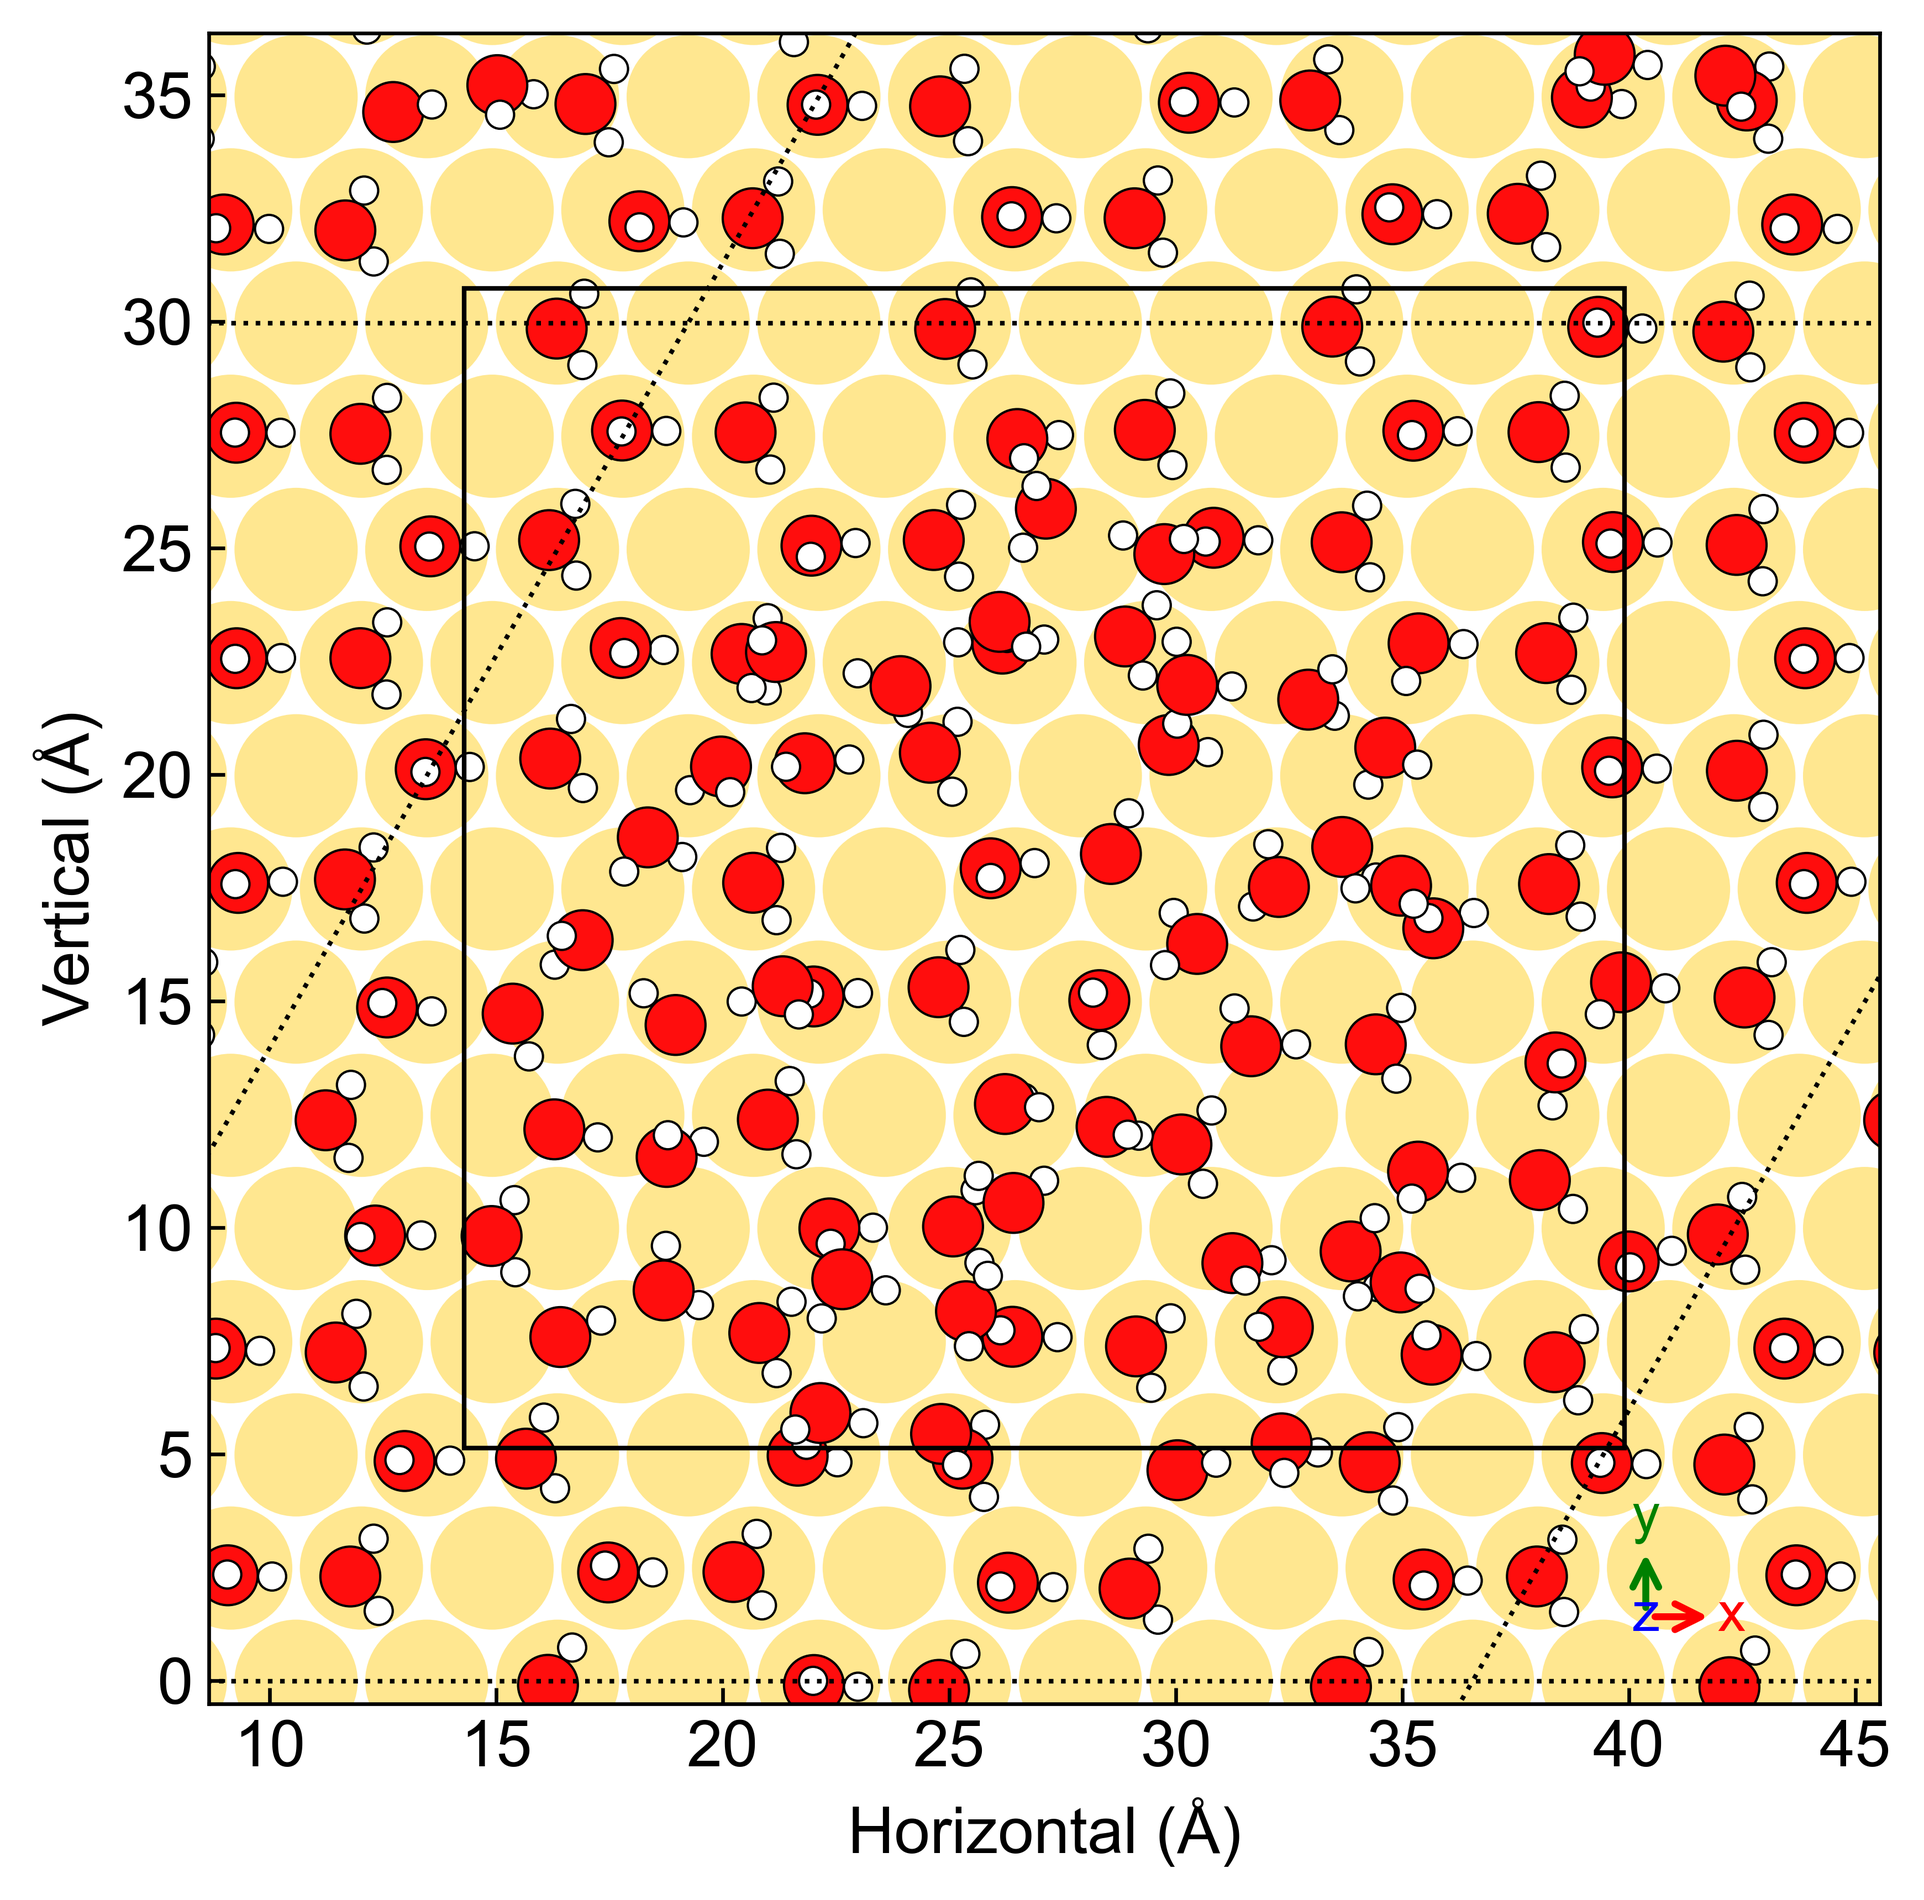
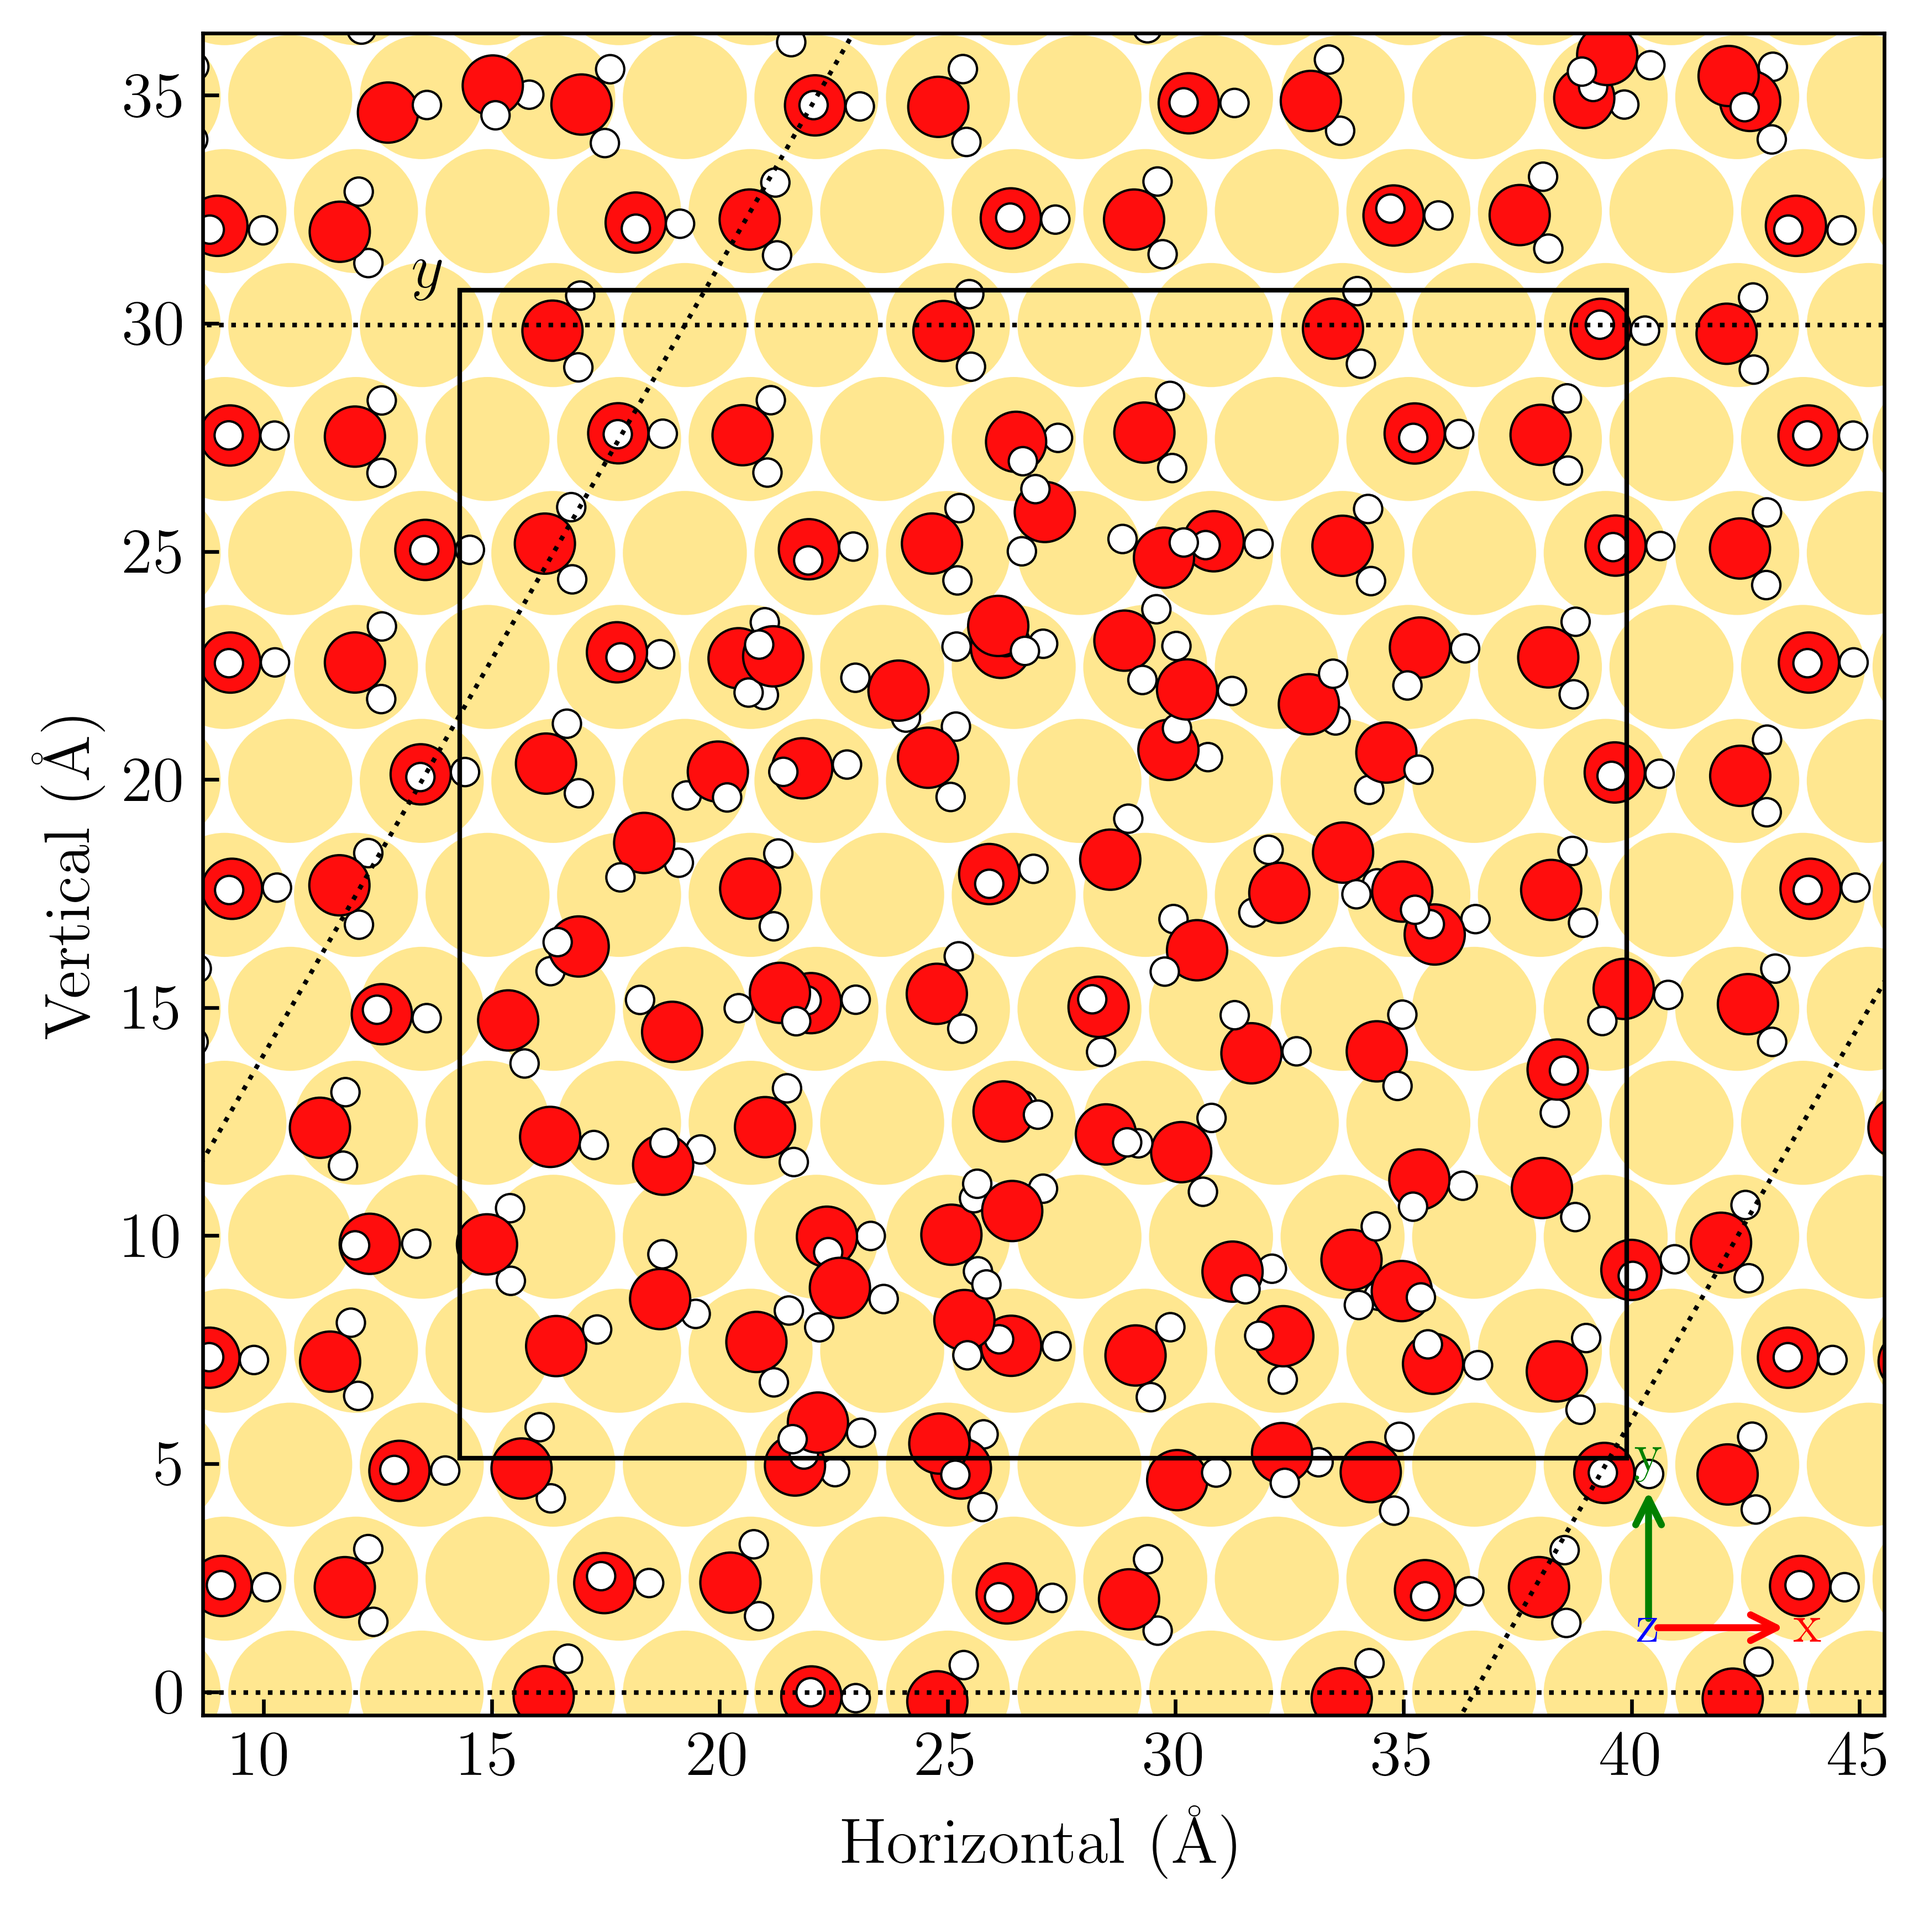
2D error map

diff --git a/src/visualiseTrainingData.py b/src/visualiseTrainingData.py
@@ -18,7 +18,11 @@ import imageio.v3 as iio
 
 from utils import get_scan_window_from_xyz, draw_unit_cells, draw_3d_axis_indicator
 # Input structure for visualization
-demoStructure = '../data/structures/simulations/Label/0.xyz'
+demoIndex = 0
+demoStructure = f'../data/structures/simulations/Label/{demoIndex}.xyz'
+exampleInput = '../data/overview'
+refZ0 = 14.0 # Needs to be confirmed latter
+dz = 0.4 # Units: Å
 
 # Output folder for the output structures
 figure_folder = '../results/train_data'
@@ -39,14 +43,15 @@ plt.rcParams['font.size']=14
 plt.rcParams['font.family']='Arial'
 plt.rcParams['pdf.fonttype']=42
 plt.rcParams['svg.fonttype'] = 'none'
+plt.rcParams['text.usetex'] = True # Render text with LaTeX
 
 
 xyz_min, xyz_max = get_scan_window_from_xyz(demoStructure)
 xyz_center = xyz_min + (xyz_max - xyz_min)/2
 
-###############################################################
-# Plot the atoms of demonstration configuration in the xy plane
-###############################################################
+####################################################################
+# 1. Plot the atoms of demonstration configuration in the xy plane
+####################################################################
 atoms = read_xyz_with_atomic_numbers(demoStructure)
 
 substrate = atoms[atoms.numbers == 79] # Au substrate
@@ -118,6 +123,10 @@ if showImageRegion:
     rect = Rectangle((x0, y0), width, height, linewidth=1, edgecolor='k',
                      facecolor='none', label='image region')
     ax1.add_patch(rect)
+    offset_x = 0.04 * width
+    offset_y = 0.04 * height
+    ax1.text(x0 - offset_x, y1 + offset_y, r"$y$", va='top', ha='left')
+
 
 yticks = np.arange(20, 70.1, 5)
 ax1.set_yticks(yticks)
@@ -150,9 +159,9 @@ plt.close(fig)
 
 
 
-#####################################################
-# Plot simulation images and style translated images
-#####################################################
+########################################################
+# 2. Plot simulation images and style translated images
+########################################################
 showScanRegion = False
 showImageRegion = True
 showLattice = False
@@ -282,59 +291,93 @@ ax2.set_ylim([xy_center[1] - sw_y/2 - offset, xy_center[1] + sw_y/2 + offset])
 # Axis label
 ax2.text(offset_text, 1 - offset_text_y, "$y$", transform=ax2.transAxes, va='top', ha='left')
 
-refZ0 = 14.0
-dz = 0.4
-# Step 1: Collect all images first to compute global vmin and vmax
+# Step 1: Collect all images first to compute global vmin and vmax, then I can use the same vmin and vmax for all images
 all_images = []
-
 for j in range(2):
     for i in range(3):
         if j == 0:
-            imagePath = '/Users/huangj4/Desktop/2024-StyleTranslation-Figures/overview/PPAFM/{:.2f}.png'.format(i * 0.1 * dz)
+            imagePath = '{}/PPAFM/{:.2f}.png'.format(exampleInput, i * 0.1 * dz) # PPAFM
         else:
-            imagePath = '/Users/huangj4/Desktop/2024-StyleTranslation-Figures/overview/FakeAFM/{:.2f}.png'.format(i * 0.1 * dz)
-        image = iio.imread(imagePath)
+            imagePath = '{}/FakeAFM/{:.2f}.png'.format(exampleInput, i * 0.1 * dz) # FakeAFM
+        image = iio.imread(imagePath).astype(np.float32)  
         all_images.append(image)
-
-# Step 2: Compute global vmin and vmax
 all_images_np = np.array(all_images)
 vmin = all_images_np.min()
 vmax = all_images_np.max()
 
-for j in range(2):
-    for i in range(3):
+# Calculate the error maps
+error_maps = []
+for i in range(3):
+    imagePPAFM = '{}/PPAFM/{:.2f}.png'.format(exampleInput, i * 0.1 * dz) # PPAFM
+    imageFakeAFM = '{}/FakeAFM/{:.2f}.png'.format(exampleInput, i * 0.1 * dz) # FakeAFM
+    imagePPAFM = iio.imread(imagePPAFM).astype(np.float32)  
+    imageFakeAFM = iio.imread(imageFakeAFM).astype(np.float32)
+    print('imagePPAFM:', imagePPAFM)
+    print('imageFakeAFM:', imageFakeAFM)
+    error_map = imageFakeAFM - imagePPAFM
+    print('error_map:', error_map)
+    error_maps.append(error_map)
+all_error_maps = np.array(error_maps)
+emin = all_error_maps.min()
+emax = all_error_maps.max()
+print('emin:', emin)
+print('emax:', emax)
+
+subLabels = [fr"$x^\prime=F_{{\mathcal{{Y}}}}(y)$", fr"$x=G_{{\mathcal{{X}}^\prime}}(x^\prime)$", fr"$x-x^\prime$"]
+
+# Store axes for each column
+axes_col = [[], [], []]
+ims_col = [None, None, None]
+
+for j in range(3): # Columns
+    for i in range(3): # Rows
         ax = fig.add_subplot(gs[i+1, j])
         ax.set_aspect('equal')
         ax.tick_params(axis='both', direction='in', labelright=False)
+        im = None
         if j == 0:
-            imagePath = '/Users/huangj4/Desktop/2024-StyleTranslation-Figures/overview/PPAFM/{:.2f}.png'.format(i * 0.1 * dz)
-        else:
-            imagePath = '/Users/huangj4/Desktop/2024-StyleTranslation-Figures/overview/FakeAFM/{:.2f}.png'.format(i * 0.1 * dz)
-        
-        # Load image and rotate it by 90 degrees counter-clockwise
-        image = iio.imread(imagePath)  # or use imageio.imread for older versions
-        rotated_image = np.rot90(image, k=3)  # 90 degrees counter-clockwise
-        ax.imshow(rotated_image, cmap='inferno', vmin=vmin, vmax=vmax)
+            imagePath = '{}/PPAFM/{:.2f}.png'.format(exampleInput, i * 0.1 * dz) # PPAFM
+            image = iio.imread(imagePath).astype(np.float32)  # or use imageio.imread for older versions
+            rotated_image = np.rot90(image, k=3)  # 90 degrees counter-clockwise
+            im = ax.imshow(rotated_image, cmap='inferno', vmin=vmin, vmax=vmax)
+        elif j == 1:
+            imagePath = '{}/FakeAFM/{:.2f}.png'.format(exampleInput, i * 0.1 * dz) # FakeAFM
+            image = iio.imread(imagePath).astype(np.float32)  # or use imageio.imread for older versions
+            rotated_image = np.rot90(image, k=3)  # 90 degrees counter-clockwise
+            im = ax.imshow(rotated_image, cmap='inferno', vmin=vmin, vmax=vmax)
+        elif j == 2:
+            image = all_error_maps[i]  # Use the error map
+            rotated_image = np.rot90(image, k=3)  # 90 degrees counter-clockwise
+            im = ax.imshow(rotated_image, cmap='BrBG', vmin=emin, vmax=emax)
+        ims_col[j] = im 
         ax.axis('off')  # optionally hide axis ticks and labels
         if i == 0:
-            ax.text(offset_text, 1 - offset_text_y, fr"$x^\prime=F_{{\mathcal{{Y}}}}(y)$" if j==0 else fr"$x=G_{{\mathcal{{X}}^\prime}}(x^\prime)$", transform=ax.transAxes, va='top', ha='left')
-        
+            ax.text(offset_text, 1 - offset_text_y, subLabels[j], transform=ax.transAxes, va='top', ha='left')
         if j == 0:
-            ax.text(offset_text, offset_text_y, fr"$z_{{\mathrm{{tip}}}} = {refZ0 - (i + 1) * dz :.2f}$ Å",  transform=ax.transAxes, va='bottom', ha='left')
+            ax.text(offset_text, offset_text_y, fr"$z_{{\mathrm{{tip}}}} = {refZ0 - (i + 1) * dz :.2f}$ Å",  transform=ax.transAxes, va='bottom', ha='left', color='lightgrey' if i == 2 else 'k')
+
+# Add colorbars above each column
+cax = fig.add_axes([0.13 + 0.29, 0.1, 0.2, 0.015])  # [left, bottom, width, height], adjust as needed
+cbar = fig.colorbar(ims_col[0], cax=cax, orientation='horizontal')
+cbar.set_label('Intensity')
+
+cax = fig.add_axes([0.13 + 0.29*j, 0.1, 0.2, 0.015])  # [left, bottom, width, height], adjust as needed
+cbar = fig.colorbar(ims_col[-1], cax=cax, orientation='horizontal')
+cbar.set_label('Error')
 
 
 fig.subplots_adjust(hspace=0, wspace=0.3, left=0.08, bottom=0.15, right=0.99, top=0.95)
 #plt.tight_layout()
 if show: plt.show() 
-fig.savefig("{}/xy_view_data.png".format(figure_folder), dpi=600, bbox_inches='tight')  # Set DPI to 300
+fig.savefig("{}/xy_view_data.png".format(figure_folder), dpi=600)  # Set DPI to 300
 fig.savefig("{}/xy_view_data.pdf".format(figure_folder))  # Set DPI to 300
 fig.savefig("{}/xy_view_data.svg".format(figure_folder))
 plt.close(fig)
 
 
-#####################################################################
-# Get the z distribution for all the structures in the Label folder
-#####################################################################
+########################################################################
+# 3. Get the z distribution for all the structures in the Label folder
+########################################################################
 showAll = True
 if showAll:
     samples = read_samples_from_folder('../data/structures/simulations/Label')
